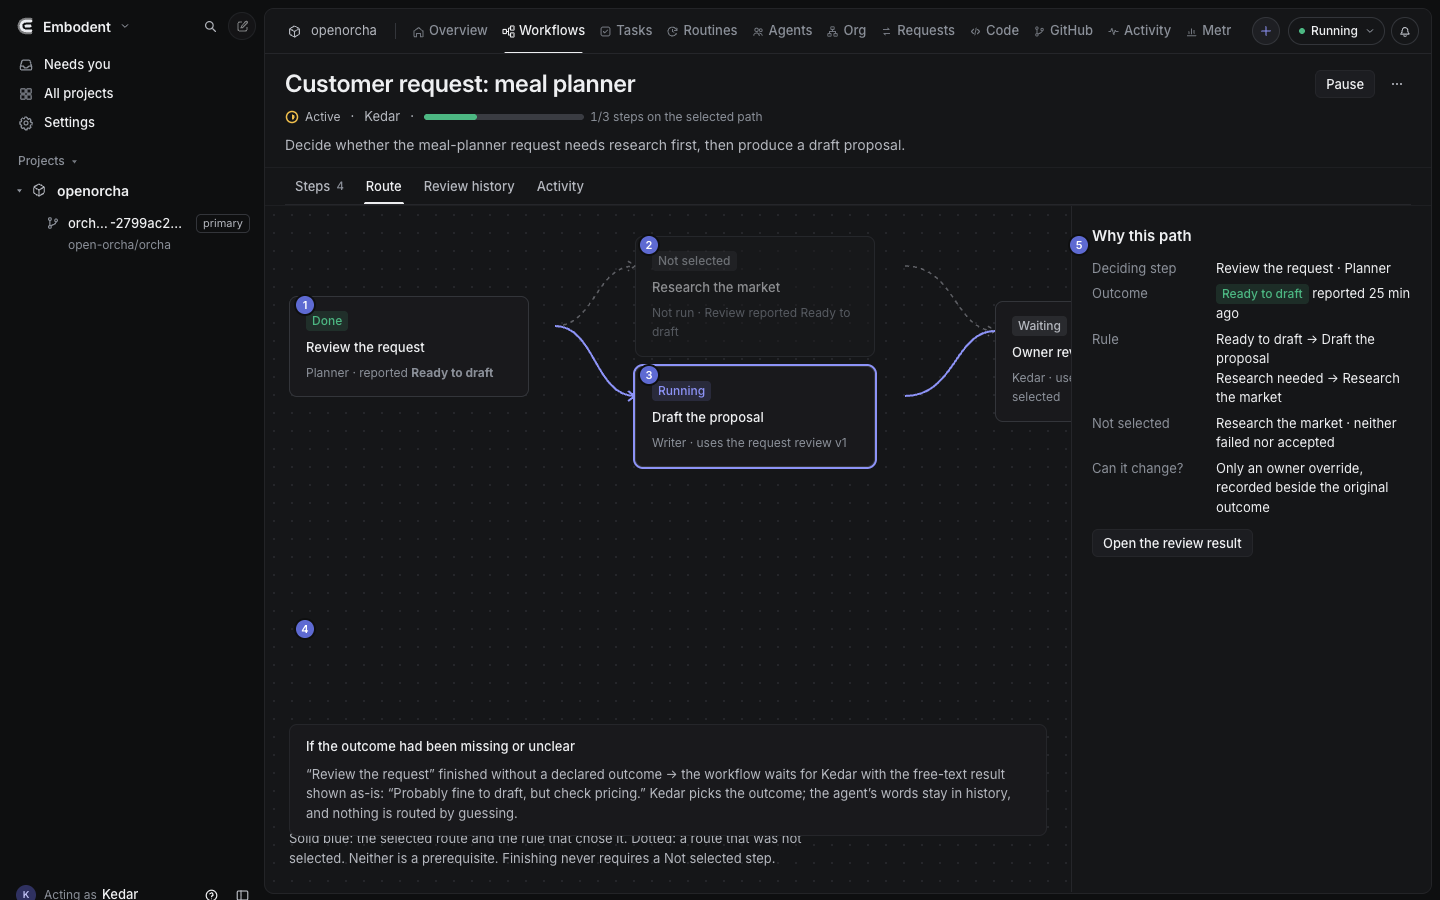
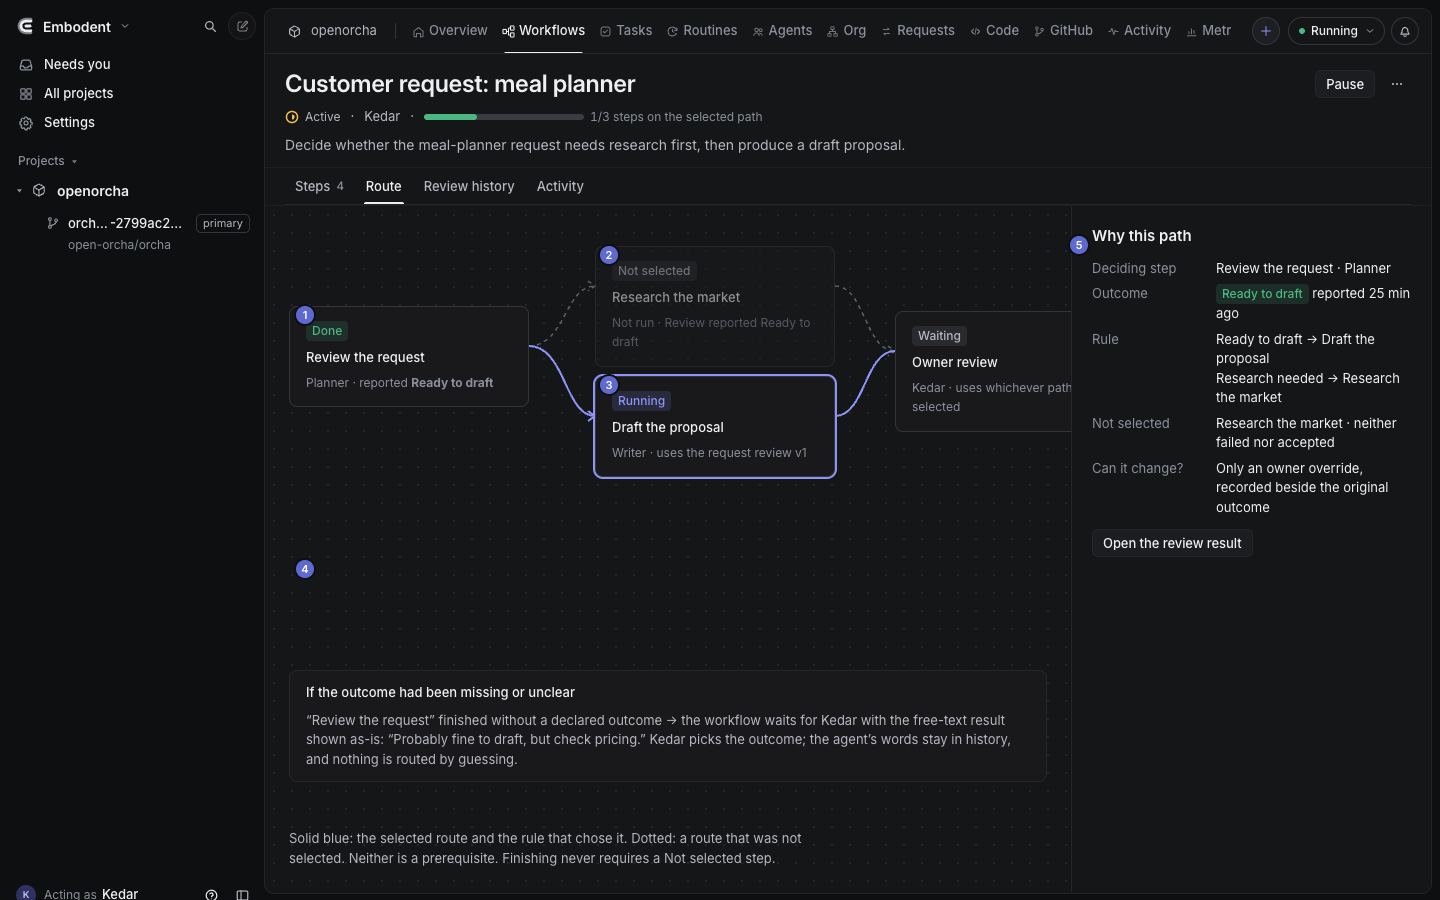
[Dana] Flexible workflows UX: fix branch graph layout, scrolled create render

diff --git a/docs/design/workflows/flexible/flexible.html b/docs/design/workflows/flexible/flexible.html
@@ -526,18 +526,18 @@
   <header class="wf-head"><h1 class="wf-head-title">Customer request: meal planner</h1><div class="wf-head-meta"><span class="v2-si-wrap has-label"><svg class="v2-si v2-si-c-progress" width="14" height="14"><use href="#si-progress"/></svg><span class="v2-si-label">Active</span></span><span>·</span><span>Kedar</span><span>·</span><span class="wf-prog is-lg"><span class="wf-prog-bar"><i style="width:33%"></i></span><span>1/3 steps on the selected path</span></span></div><p class="wf-head-goal">Decide whether the meal-planner request needs research first, then produce a draft proposal.</p><div class="wf-head-actions"><button type="button" class="v2-btn v2-btn-secondary v2-btn-md"><span class="v2-btn-label">Pause</span></button><button type="button" class="v2-iconbtn v2-iconbtn-circle"><svg class="v2-ico"><use href="#i-more"/></svg></button></div></header>
   <div class="wf-tabs-row"><div class="v2-tabs" role="tablist"><button type="button" class="v2-tab" role="tab"><span class="v2-tab-label">Steps</span><span class="v2-count">4</span></button><button type="button" class="v2-tab is-selected" role="tab"><span class="v2-tab-label">Route</span></button><button type="button" class="v2-tab" role="tab"><span class="v2-tab-label">Review history</span></button><button type="button" class="v2-tab" role="tab"><span class="v2-tab-label">Activity</span></button></div></div>
   <div class="wf-compose" style="grid-template-columns:minmax(0,1fr) 360px"><div class="wf-compose-canvas">
-    <svg style="position:absolute;inset:0;width:100%;height:100%;color:var(--v2-text-2)" aria-hidden="true"><path d="M 290 120 C 330 120 330 60 370 60 M 363 55 L 370 60 L 363 65" stroke="currentColor" fill="none" stroke-width="1.5" stroke-dasharray="4 4" opacity=".45"/><path d="M 290 120 C 330 120 330 190 370 190 M 363 185 L 370 190 L 363 195" stroke="var(--v2-accent)" fill="none" stroke-width="2"/><path d="M 640 60 C 690 60 690 125 730 125 M 723 120 L 730 125 L 723 130" stroke="currentColor" fill="none" stroke-width="1.5" stroke-dasharray="4 4" opacity=".45"/><path d="M 640 190 C 690 190 690 125 730 125" stroke="var(--v2-accent)" fill="none" stroke-width="2"/></svg>
-    <button type="button" class="wf-compose-node" style="left:24px;top:90px"><span class="v2-badge v2-tone-ok">Done</span><strong>Review the request</strong><span class="wf-muted">Planner · reported <b>Ready to draft</b></span></button>
-    <button type="button" class="wf-compose-node wf-notsel" style="left:370px;top:30px"><span class="v2-badge v2-tone-neutral">Not selected</span><strong>Research the market</strong><span class="wf-muted">Not run · Review reported Ready to draft</span></button>
-    <button type="button" class="wf-compose-node is-selected" style="left:370px;top:160px"><span class="v2-badge v2-tone-accent">Running</span><strong>Draft the proposal</strong><span class="wf-muted">Writer · uses the request review v1</span></button>
-    <button type="button" class="wf-compose-node" style="left:730px;top:95px"><span class="v2-badge v2-tone-neutral">Waiting</span><strong>Owner review</strong><span class="wf-muted">Kedar · uses whichever path was selected</span></button>
+    <svg style="position:absolute;inset:0;width:100%;height:100%;color:var(--v2-text-2)" aria-hidden="true"><path d="M 264 140 C 300 140 300 80 330 80 M 323 75 L 330 80 L 323 85" stroke="currentColor" fill="none" stroke-width="1.5" stroke-dasharray="4 4" opacity=".45"/><path d="M 264 140 C 300 140 300 210 330 210 M 323 205 L 330 210 L 323 215" stroke="var(--v2-accent)" fill="none" stroke-width="2"/><path d="M 570 80 C 600 80 600 145 630 145 M 623 140 L 630 145 L 623 150" stroke="currentColor" fill="none" stroke-width="1.5" stroke-dasharray="4 4" opacity=".45"/><path d="M 570 210 C 600 210 600 145 630 145" stroke="var(--v2-accent)" fill="none" stroke-width="2"/></svg>
+    <button type="button" class="wf-compose-node" style="left:24px;top:100px"><span class="v2-badge v2-tone-ok">Done</span><strong>Review the request</strong><span class="wf-muted">Planner · reported <b>Ready to draft</b></span></button>
+    <button type="button" class="wf-compose-node wf-notsel" style="left:330px;top:40px"><span class="v2-badge v2-tone-neutral">Not selected</span><strong>Research the market</strong><span class="wf-muted">Not run · Review reported Ready to draft</span></button>
+    <button type="button" class="wf-compose-node is-selected" style="left:330px;top:170px"><span class="v2-badge v2-tone-accent">Running</span><strong>Draft the proposal</strong><span class="wf-muted">Writer · uses the request review v1</span></button>
+    <button type="button" class="wf-compose-node" style="left:630px;top:105px"><span class="v2-badge v2-tone-neutral">Waiting</span><strong>Owner review</strong><span class="wf-muted">Kedar · uses whichever path was selected</span></button>
     <div class="wf-compose-caption">Solid blue: the selected route and the rule that chose it. Dotted: a route that was not selected. Neither is a prerequisite. Finishing never requires a Not selected step.</div>
-    <div class="wf-card" style="position:absolute;left:24px;right:24px;bottom:56px;margin:0"><div class="wf-card-h">If the outcome had been missing or unclear</div><p class="wf-p" style="margin:0">“Review the request” finished without a declared outcome → the workflow waits for Kedar with the free-text result shown as-is: “Probably fine to draft, but check pricing.” Kedar picks the outcome; the agent’s words stay in history, and nothing is routed by guessing.</p></div>
+    <div class="wf-card" style="position:absolute;left:24px;right:24px;bottom:110px;margin:0"><div class="wf-card-h">If the outcome had been missing or unclear</div><p class="wf-p" style="margin:0">“Review the request” finished without a declared outcome → the workflow waits for Kedar with the free-text result shown as-is: “Probably fine to draft, but check pricing.” Kedar picks the outcome; the agent’s words stay in history, and nothing is routed by guessing.</p></div>
   </div>
   <aside class="wf-compose-panel"><h2>Why this path</h2><dl class="wf-kv" style="margin-top:12px"><dt>Deciding step</dt><dd>Review the request · Planner</dd><dt>Outcome</dt><dd><span class="v2-badge v2-tone-ok">Ready to draft</span> reported 25 min ago</dd><dt>Rule</dt><dd>Ready to draft → Draft the proposal<br>Research needed → Research the market</dd><dt>Not selected</dt><dd>Research the market · neither failed nor accepted</dd><dt>Can it change?</dt><dd>Only an owner override, recorded beside the original outcome</dd></dl><button type="button" class="v2-btn v2-btn-secondary v2-btn-md" style="margin-top:12px"><span class="v2-btn-label">Open the review result</span></button></aside></div>
 </div>
 </main></div></div></div>
-<span class="note" style="left:296px;top:296px">1</span><span class="note" style="left:640px;top:236px">2</span><span class="note" style="left:640px;top:366px">3</span><span class="note" style="left:296px;top:620px">4</span><span class="note" style="left:1070px;top:236px">5</span>
+<span class="note" style="left:296px;top:306px">1</span><span class="note" style="left:600px;top:246px">2</span><span class="note" style="left:600px;top:376px">3</span><span class="note" style="left:296px;top:560px">4</span><span class="note" style="left:1070px;top:236px">5</span>
 </div></div>
 
 </div>
